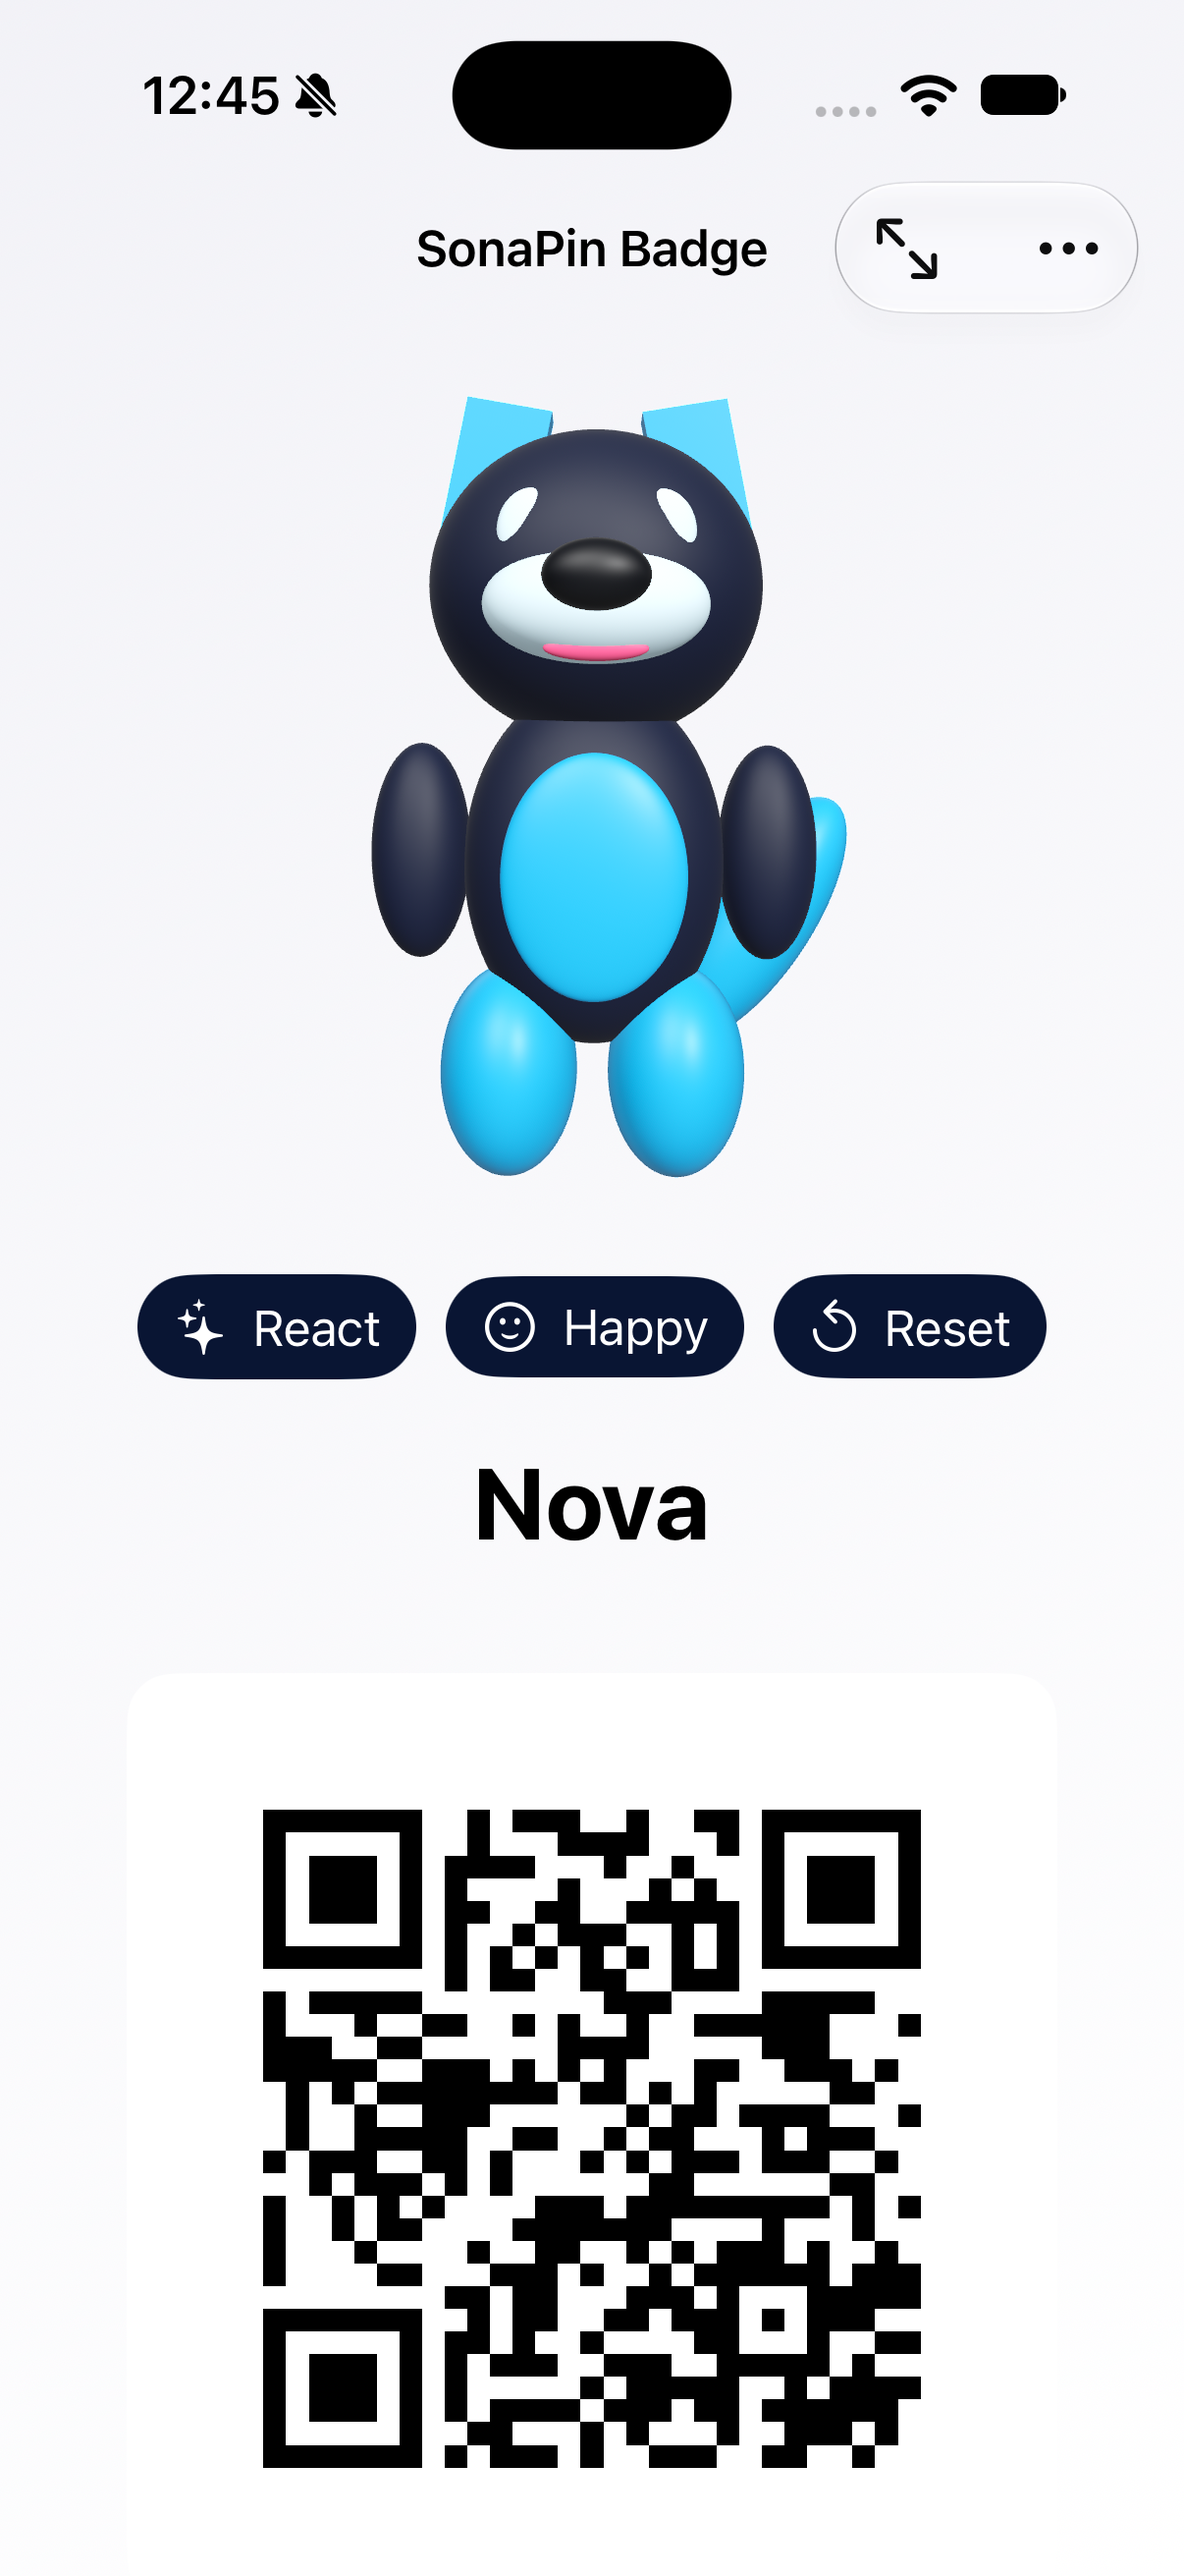
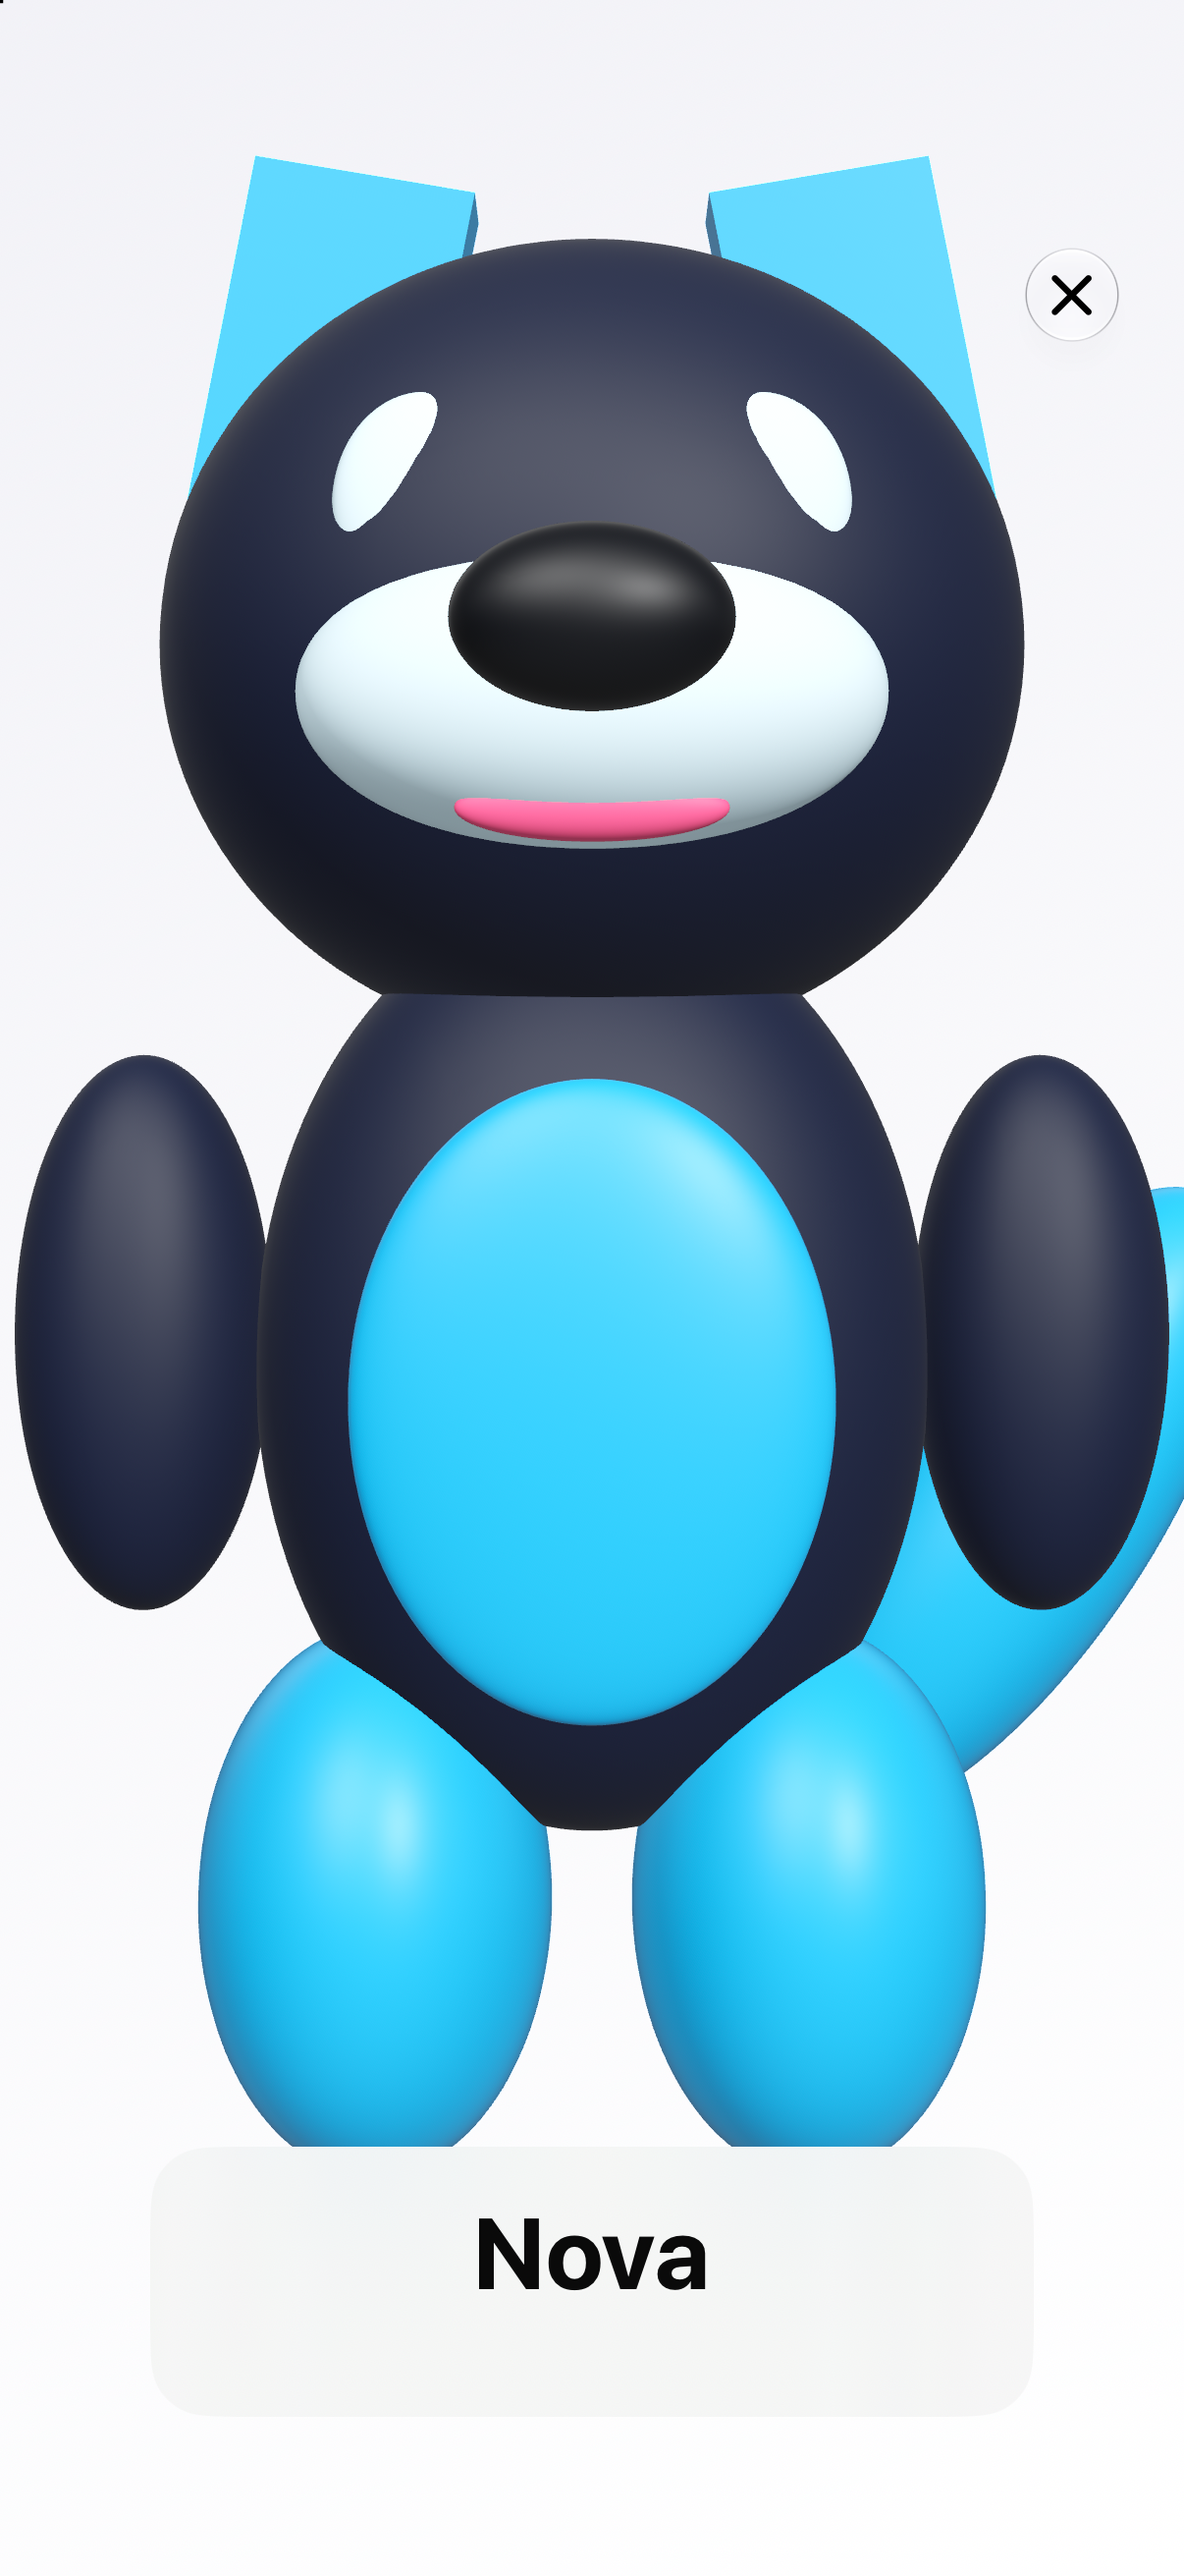
Use full badge previews in homepage tour

diff --git a/tests/e2e/landing.spec.ts b/tests/e2e/landing.spec.ts
@@ -19,7 +19,7 @@ test("manually switches between genuine app screens and ends on the badge", asyn
   await page.emulateMedia({ colorScheme: "light" });
   await page.goto("/");
 
-  await expect(page.getByRole("img", { name: /SonaPin badge screen/i })).toBeVisible();
+  await expect(page.getByRole("img", { name: /SonaPin full-screen badge/i })).toBeVisible();
   const screenshot = page.locator("#app-screen");
   await expect(screenshot).toHaveAttribute("src", /screenshots\/badge-capture\.png$/);
   expect(await screenshot.evaluate((element) => element.clientWidth / element.clientHeight)).toBeLessThan(0.5);
@@ -36,6 +36,15 @@ test("manually switches between genuine app screens and ends on the badge", asyn
   await seeBadge.click();
   await expect(screenshot).toHaveAttribute("src", /screenshots\/badge-capture\.png$/);
   await expect(seeBadge).toHaveAttribute("aria-pressed", "true");
+
+  await page.getByRole("button", { name: "Switch to dark appearance" }).first().click();
+  await chooseAvatar.click();
+  await expect(screenshot).toHaveAttribute("src", /screenshots\/avatar-dark\.png$/);
+  await addDetails.click();
+  await expect(screenshot).toHaveAttribute("src", /screenshots\/details-dark\.png$/);
+  await seeBadge.click();
+  await expect(screenshot).toHaveAttribute("src", /screenshots\/badge-capture-dark\.png$/);
+  await expect(screenshot).toHaveAttribute("alt", /full-screen badge in dark appearance/i);
 });
 
 test("automatically rotates through app screens and can be paused", async ({ page }) => {
@@ -70,7 +79,7 @@ test("defaults to the OS theme and persists a theme choice across docs pages", a
   await page.getByRole("button", { name: "Switch to dark appearance" }).click();
   await expect(root).toHaveAttribute("data-theme", "dark");
   await expect(page.locator("#app-screen")).toHaveAttribute("src", /screenshots\/badge-capture-dark\.png$/);
-  await expect(page.locator("#screen-caption")).toContainText("No QR code is configured in this simulator");
+  await expect(page.locator("#screen-caption")).toContainText("Actual dark-mode capture · See your badge");
   await page.reload();
   await expect(root).toHaveAttribute("data-theme", "dark");
   await expect(page.locator("#app-screen")).toHaveAttribute("src", /screenshots\/badge-capture-dark\.png$/);
@@ -134,7 +143,7 @@ test("keeps the page usable on a narrow phone", async ({ page }) => {
 
   await expect(page.getByRole("heading", { level: 1 })).toBeVisible();
   await expect(page.locator(".hero-copy .store-button")).toBeVisible();
-  await expect(page.getByRole("img", { name: /SonaPin badge screen/i })).toBeVisible();
+  await expect(page.getByRole("img", { name: /SonaPin full-screen badge/i })).toBeVisible();
   const overflow = await page.evaluate(() => ({
     width: document.documentElement.scrollWidth,
     elements: [...document.querySelectorAll("*")]

diff --git a/apps/docs/src/index.html b/apps/docs/src/index.html
@@ -50,9 +50,9 @@
             <p id="screen-caption" aria-live="off">Actual SonaPin screen · See your badge</p>
             <div class="screen-chooser">
               <div class="screen-picker" role="group" aria-label="Choose an app screen">
-                <button type="button" data-image="__BASE_PATH__screenshots/avatar.png" data-alt="SonaPin avatar screen showing built-in blue wolf support and VRM import." aria-pressed="false">Choose avatar</button>
-                <button type="button" data-image="__BASE_PATH__screenshots/details.jpg" data-alt="SonaPin profile editor showing the demo name Nova and optional pronouns." aria-pressed="false">Add details</button>
-                <button type="button" data-image="__BASE_PATH__screenshots/badge-capture.png" data-alt="SonaPin badge screen showing the built-in blue wolf avatar, the name Nova, and a QR code linking to the public SonaPin website." data-image-dark="__BASE_PATH__screenshots/badge-capture-dark.png" data-alt-dark="SonaPin badge screen in dark appearance showing the built-in blue wolf avatar, the name Nova, and a No QR code yet message." aria-pressed="true">See your badge</button>
+                <button type="button" data-image="__BASE_PATH__screenshots/avatar.png" data-alt="SonaPin avatar screen showing built-in blue wolf support and VRM import." data-image-dark="__BASE_PATH__screenshots/avatar-dark.png" data-alt-dark="SonaPin avatar screen in dark appearance showing built-in blue wolf support and VRM import." aria-pressed="false">Choose avatar</button>
+                <button type="button" data-image="__BASE_PATH__screenshots/details.jpg" data-alt="SonaPin profile editor showing the demo name Nova and optional pronouns." data-image-dark="__BASE_PATH__screenshots/details-dark.png" data-alt-dark="SonaPin profile editor in dark appearance showing the demo name Nova and optional pronouns." aria-pressed="false">Add details</button>
+                <button type="button" data-image="__BASE_PATH__screenshots/badge-capture.png" data-alt="SonaPin full-screen badge showing the built-in blue wolf avatar and the name Nova." data-image-dark="__BASE_PATH__screenshots/badge-capture-dark.png" data-alt-dark="SonaPin full-screen badge in dark appearance showing the built-in blue wolf avatar and the name Nova." aria-pressed="true">See your badge</button>
               </div>
               <div class="screen-preview-controls"><button id="screen-rotation-toggle" class="screen-rotation-toggle" type="button" aria-label="Pause screen rotation" aria-pressed="false" title="Pause screen rotation">Ⅱ</button></div>
             </div>

diff --git a/apps/docs/src/site.ts b/apps/docs/src/site.ts
@@ -27,14 +27,12 @@ function showSelectedScreen() {
   appScreen.src = darkImage ?? image;
   appScreen.alt = darkImage
     ? selected.dataset.altDark ?? alt
-    : theme === "dark" ? `${alt} Captured in light appearance; no dark capture is available for this screen.` : alt;
+    : alt;
 
   const name = selected.textContent?.trim() ?? "Selected screen";
   screenCaption.textContent = darkImage
-    ? `Actual dark-mode capture · ${name} · No QR code is configured in this simulator.`
-    : theme === "dark"
-      ? `Actual light-mode capture · ${name} · No dark capture is available for this screen.`
-      : `Actual SonaPin screen · ${name}`;
+    ? `Actual dark-mode capture · ${name}`
+    : `Actual light-mode capture · ${name}`;
 }
 
 function applyTheme() {

diff --git a/apps/native/SonaPin/Features/Badge/ImmersiveBadgeView.swift b/apps/native/SonaPin/Features/Badge/ImmersiveBadgeView.swift
@@ -98,7 +98,8 @@ private struct ImmersiveBadgeOverlay: View {
                     .frame(maxWidth: isLandscape ? 380 : 300)
                     .frame(
                         maxWidth: .infinity,
-                        alignment: isLandscape ? .leading : .center
+                        maxHeight: .infinity,
+                        alignment: isLandscape ? .leading : .bottom
                     )
 
                 if showsQRCode {
